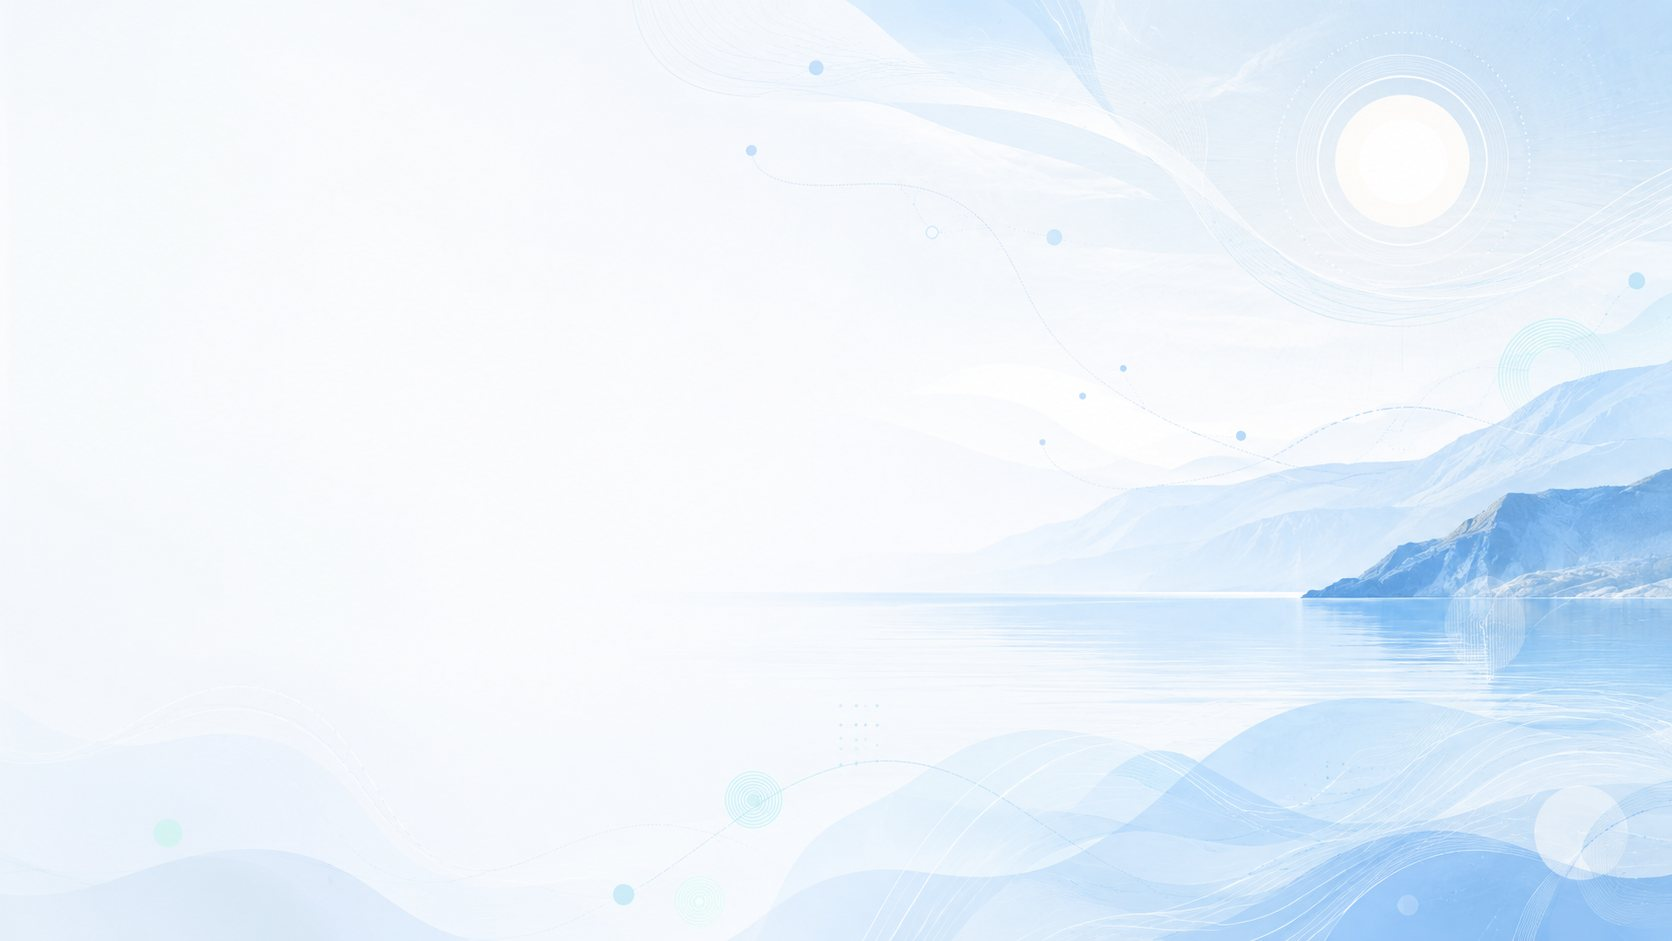
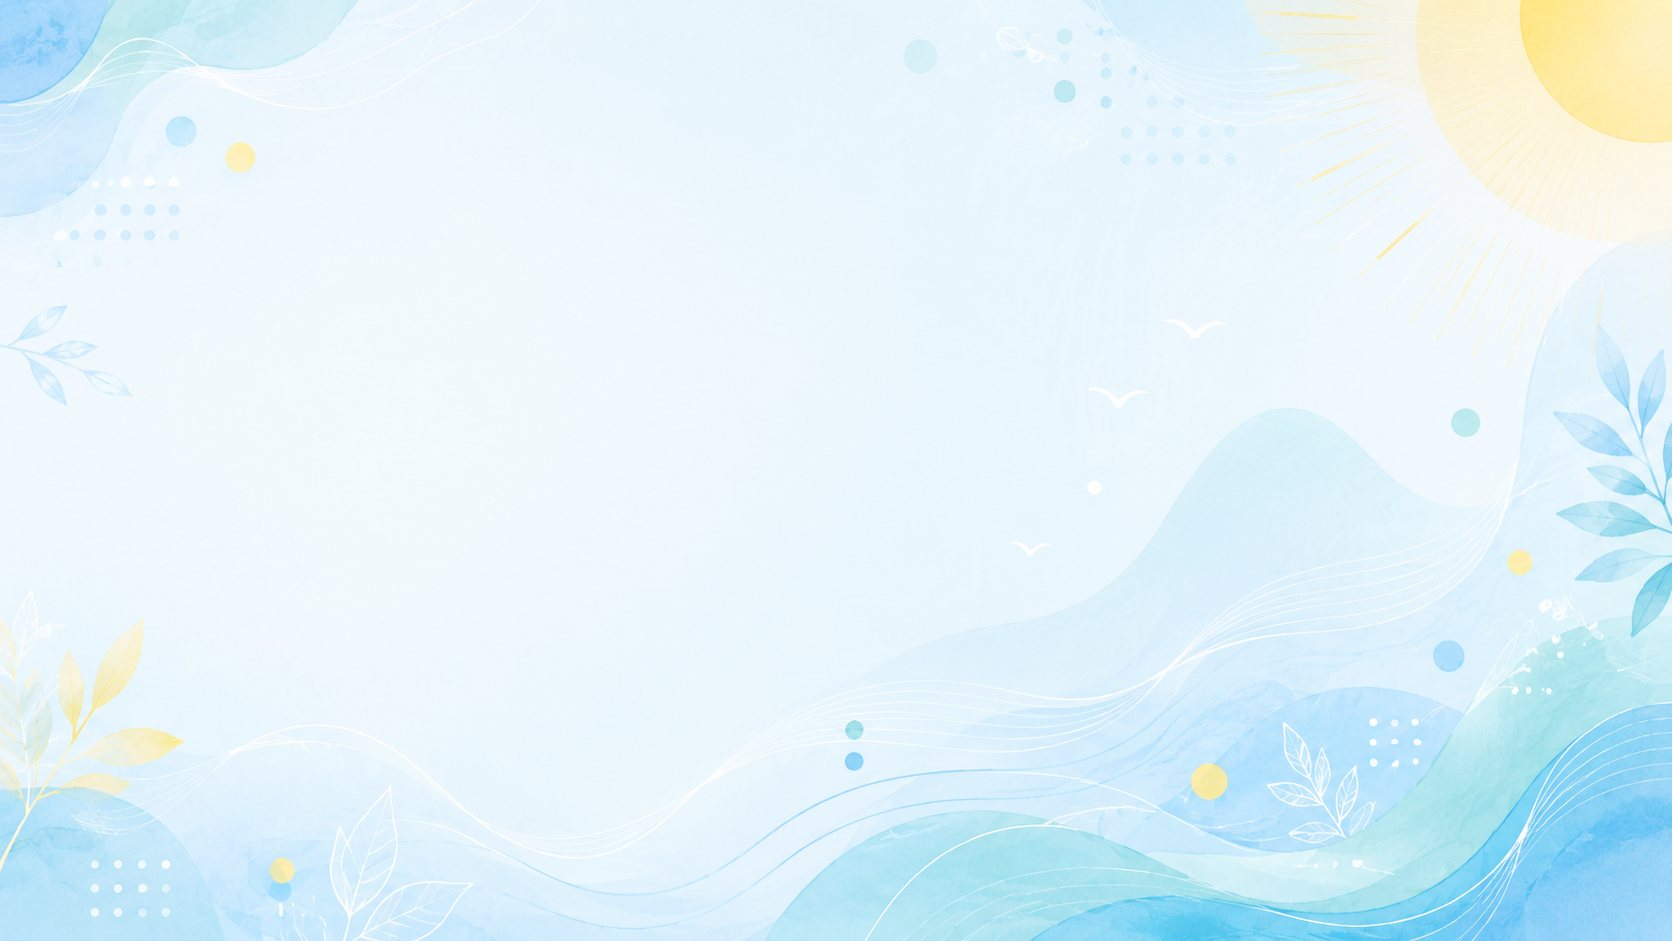
move MAX button into hero-buttons row, same size

diff --git a/mir-moey-mechty/index.html b/mir-moey-mechty/index.html
@@ -772,9 +772,7 @@ footer .copy{color:rgba(255,255,255,.18);font-size:12px}
     <div class="hero-buttons">
       <a href="https://vk.me/annamaraktaeva" target="_blank" class="btn btn-primary btn-lg">Узнать даты и забронировать место</a>
       <a href="https://vk.me/annamaraktaeva" target="_blank" class="btn btn-outline btn-lg">Задать вопрос</a>
-    </div>
-    <div style="text-align:center;margin-top:20px" class="r r4">
-      <a href="https://max.ru/u/f9LHodD0cOL_GnFSB5t_qwhKMHOcbR48OQg-ijFK3XD-juyHSQ2OQDvr7JA" target="_blank" class="btn btn-primary" style="font-size:13px;padding:12px 24px;display:inline-flex">Написать в Max</a>
+      <a href="https://max.ru/u/f9LHodD0cOL_GnFSB5t_qwhKMHOcbR48OQg-ijFK3XD-juyHSQ2OQDvr7JA" target="_blank" class="btn btn-primary btn-lg">Написать в Max</a>
     </div>
   </div>
 </section>